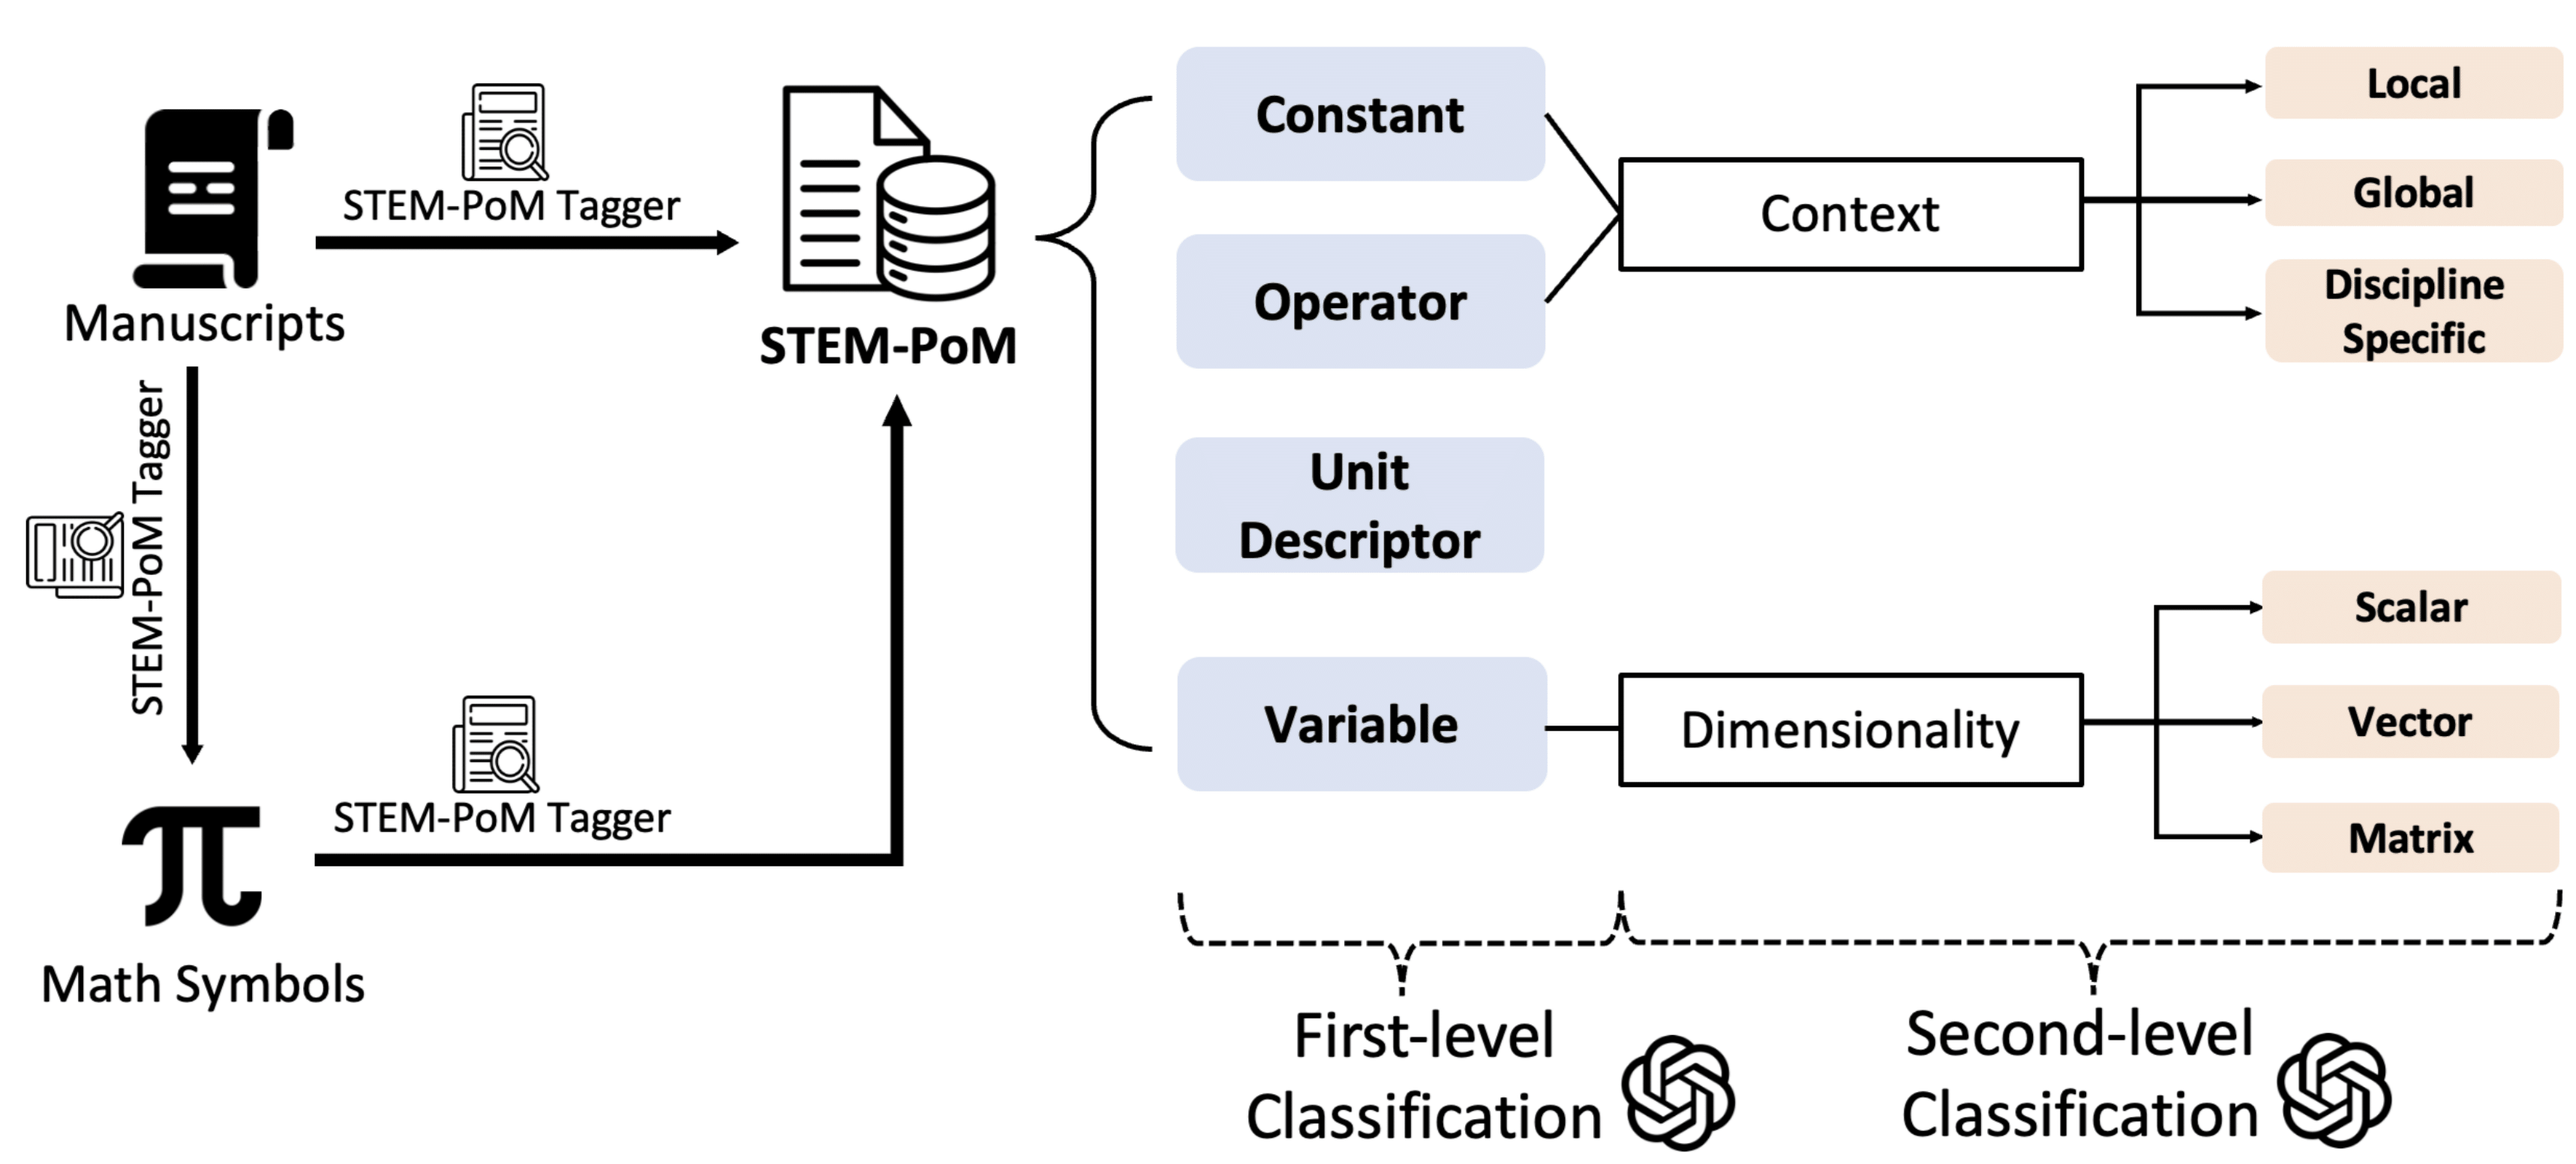
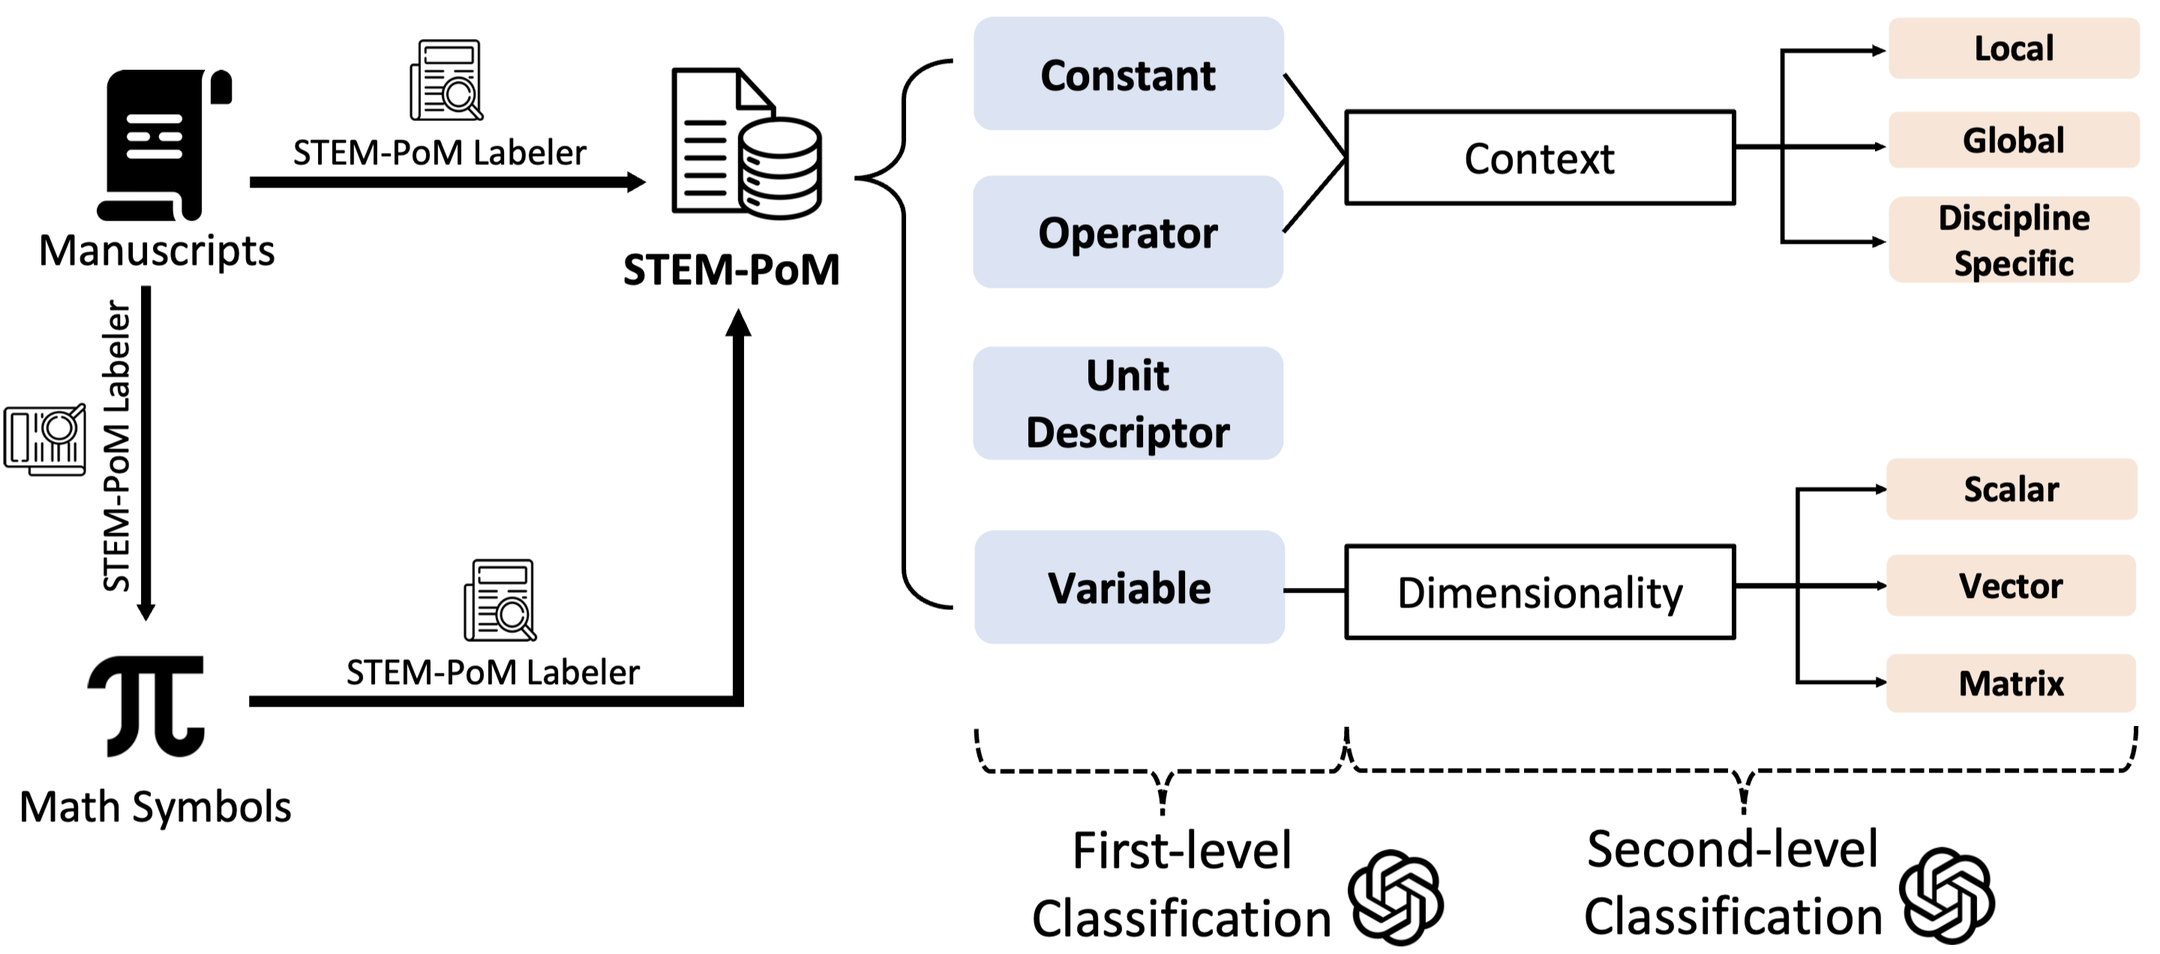
update labeler name

Changed region(s): [[0.0, 0.0, 1.0, 1.0], [0.0, 0.8278, 0.1562, 0.8892], [0.4688, 0.6745, 0.5938, 0.7052]]

diff --git a/README.md b/README.md
@@ -14,9 +14,9 @@ This repo contains the STEM-PoM benchmark dataset.
 
 ## Pipeline 
 ![Alt text](./imgs/pipeline.png)
-## STEM-PoM Tagger
+## STEM-PoM Labeler
   ```python
-  cd STEM-PoM
+  cd labeler
   python new_distribute.py # run this to open the UI
   ```
   
